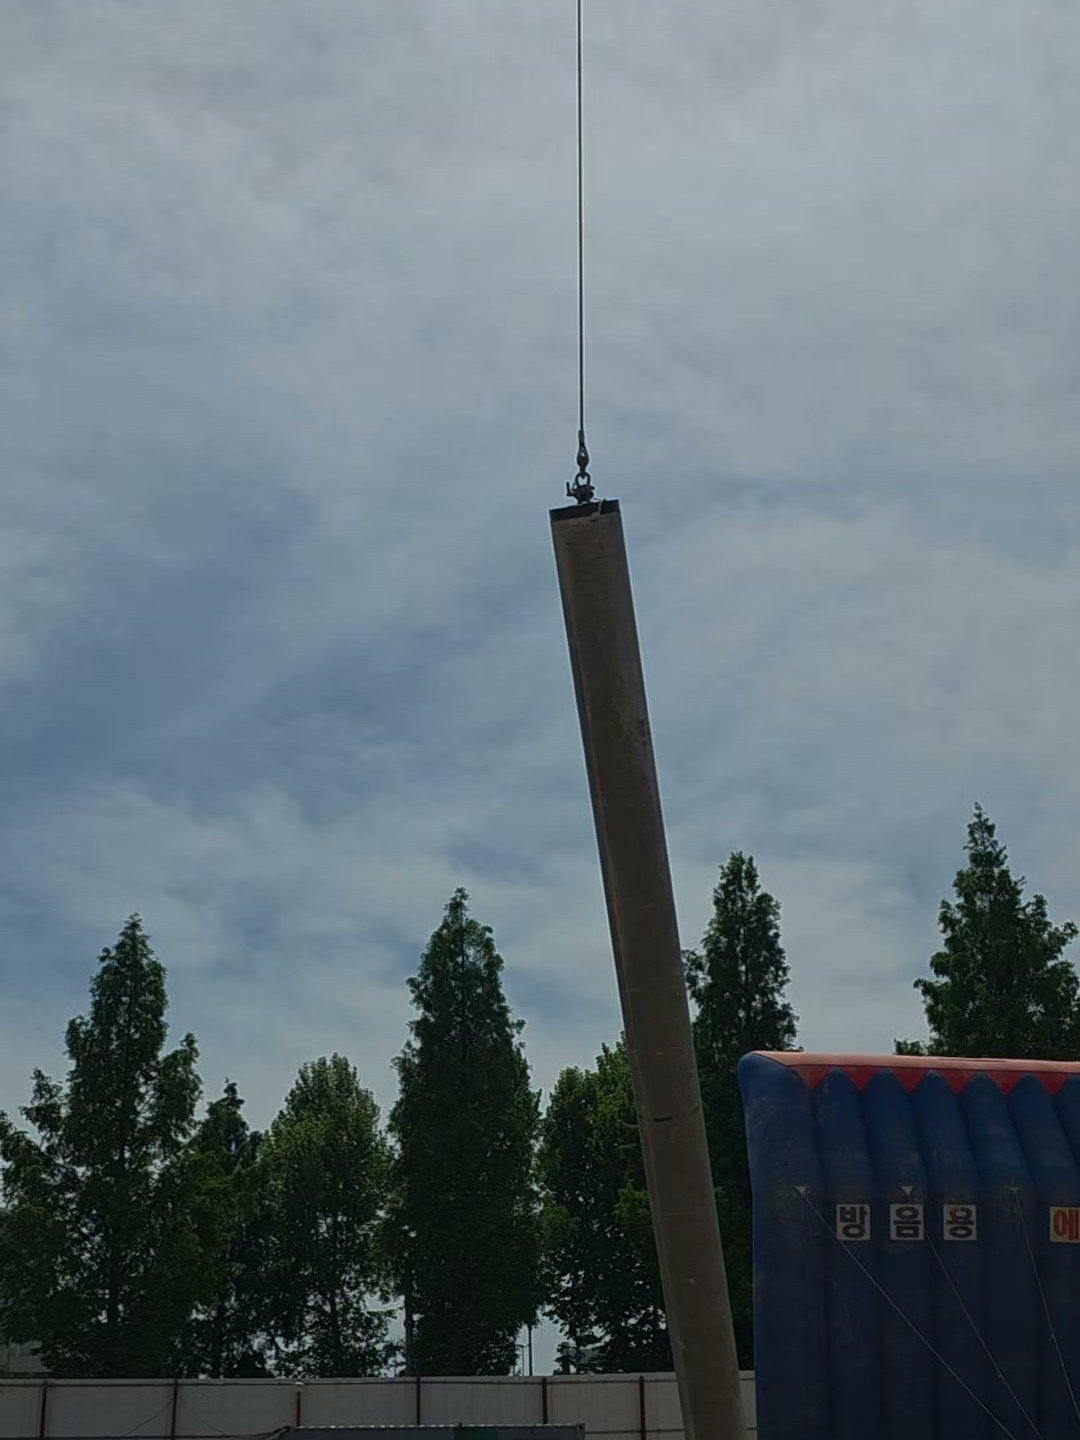
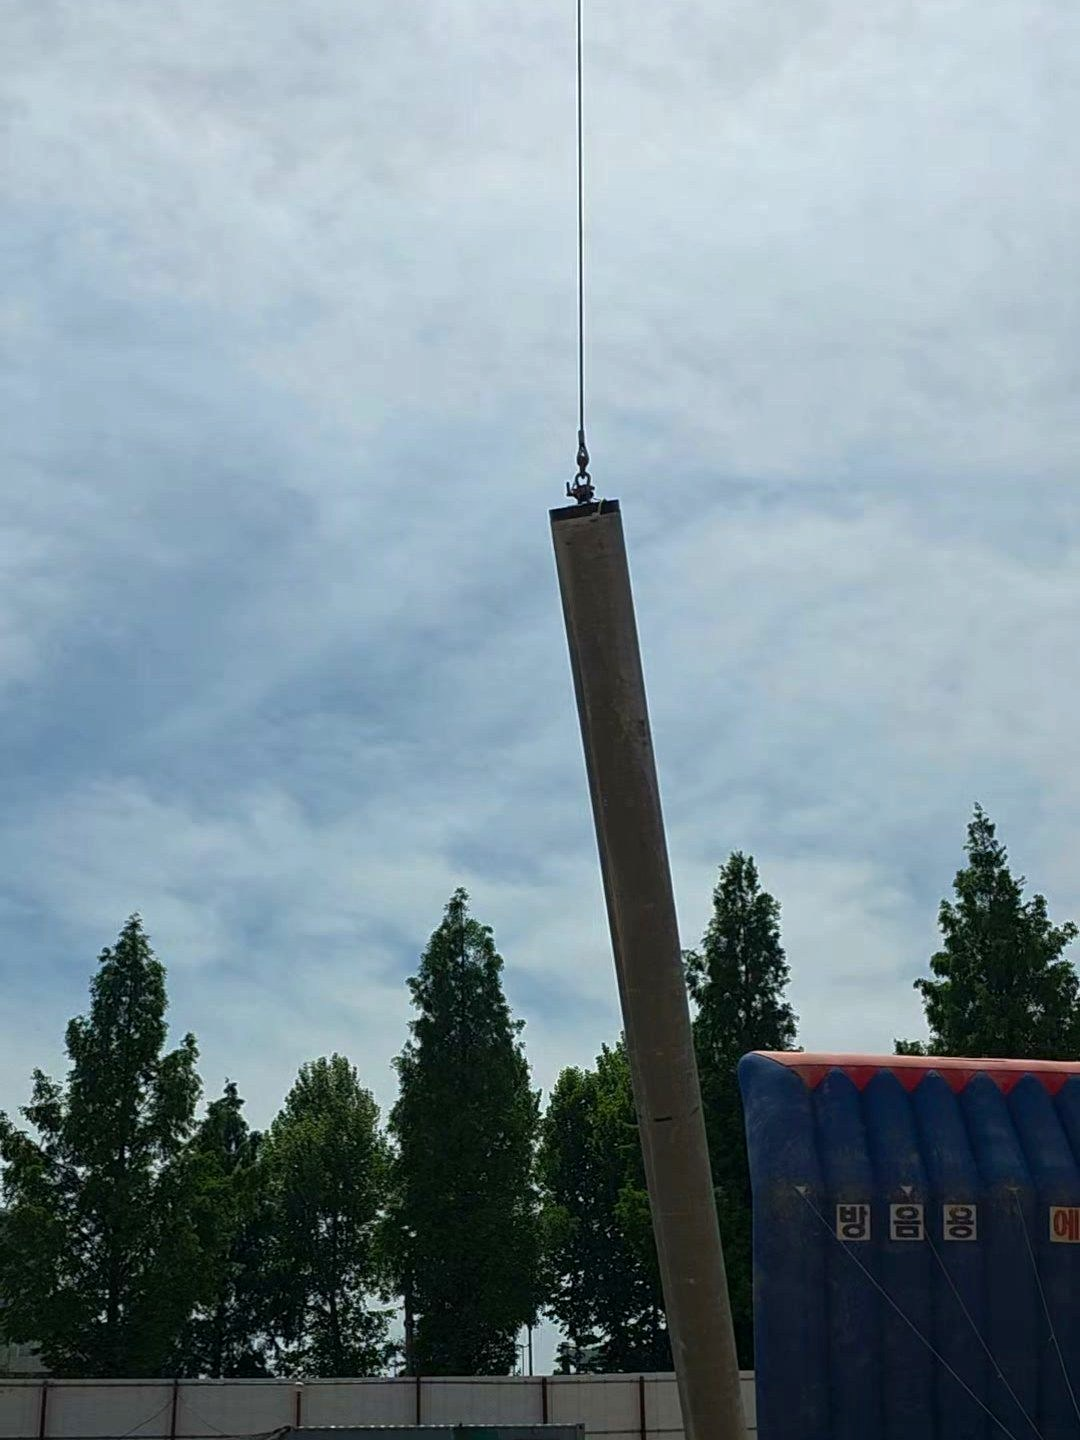
Fix fax number typo and brighten pile-lifter risk photo
- FAX 031-227-4175 -> 031-227-4715 across all pages
- Brighten the "왜 파일인양장치가 필요한가요" section photo to match
  the hero slider brightness adjustment

diff --git a/public/contact.html b/public/contact.html
@@ -88,7 +88,7 @@
           </div>
           <div class="contact-line">
             <span class="ico"><svg width="20" height="20" viewBox="0 0 24 24" fill="none" stroke="currentColor" stroke-width="2"><path d="M21 8v8a2 2 0 01-2 2H5a2 2 0 01-2-2V8m18 0l-9 6-9-6m18 0l-9-4-9 4"/></svg></span>
-            <div><div class="label">FAX</div><div class="value">031-227-4175</div></div>
+            <div><div class="label">FAX</div><div class="value">031-227-4715</div></div>
           </div>
           <div class="contact-line">
             <span class="ico"><svg width="20" height="20" viewBox="0 0 24 24" fill="none" stroke="currentColor" stroke-width="2"><path d="M4 4h16v16H4V4z"/><path d="M22 6l-10 7L2 6"/></svg></span>
@@ -161,7 +161,7 @@
           경기도 화성시 봉담읍 생수길 26<br>
           사업자등록번호 694-13-01293<br>
           대표전화 010-5448-8108<br>
-          FAX 031-227-4175<br>
+          FAX 031-227-4715<br>
           대표 이동국<br>
           <a href="mailto:tk5448@naver.com">tk5448@naver.com</a>
         </address>

diff --git a/public/location.html b/public/location.html
@@ -102,7 +102,7 @@
             <svg width="24" height="24" viewBox="0 0 24 24" fill="none" stroke="currentColor" stroke-width="2"><path d="M22 16.92v3a2 2 0 01-2.18 2 19.79 19.79 0 01-8.63-3.07 19.5 19.5 0 01-6-6 19.79 19.79 0 01-3.07-8.67A2 2 0 014.11 2h3a2 2 0 012 1.72c.127.96.362 1.903.7 2.81a2 2 0 01-.45 2.11L8.09 9.91a16 16 0 006 6l1.27-1.27a2 2 0 012.11-.45c.907.338 1.85.573 2.81.7A2 2 0 0122 16.92z"/></svg>
           </div>
           <h3>전화 / 팩스</h3>
-          <p>대표전화 010-5448-8108<br>FAX 031-227-4175<br>대표 이동국</p>
+          <p>대표전화 010-5448-8108<br>FAX 031-227-4715<br>대표 이동국</p>
         </div>
         <div class="card">
           <div class="card-icon">
@@ -154,7 +154,7 @@
           경기도 화성시 봉담읍 생수길 26<br>
           사업자등록번호 694-13-01293<br>
           대표전화 010-5448-8108<br>
-          FAX 031-227-4175<br>
+          FAX 031-227-4715<br>
           대표 이동국<br>
           <a href="mailto:tk5448@naver.com">tk5448@naver.com</a>
         </address>

diff --git a/public/about.html b/public/about.html
@@ -191,7 +191,7 @@
           경기도 화성시 봉담읍 생수길 26<br>
           사업자등록번호 694-13-01293<br>
           대표전화 010-5448-8108<br>
-          FAX 031-227-4175<br>
+          FAX 031-227-4715<br>
           대표 이동국<br>
           <a href="mailto:tk5448@naver.com">tk5448@naver.com</a>
         </address>

diff --git a/public/certifications.html b/public/certifications.html
@@ -299,7 +299,7 @@
           경기도 화성시 봉담읍 생수길 26<br>
           사업자등록번호 694-13-01293<br>
           대표전화 010-5448-8108<br>
-          FAX 031-227-4175<br>
+          FAX 031-227-4715<br>
           대표 이동국<br>
           <a href="mailto:tk5448@naver.com">tk5448@naver.com</a>
         </address>

diff --git a/public/gallery.html b/public/gallery.html
@@ -183,7 +183,7 @@
           경기도 화성시 봉담읍 생수길 26<br>
           사업자등록번호 694-13-01293<br>
           대표전화 010-5448-8108<br>
-          FAX 031-227-4175<br>
+          FAX 031-227-4715<br>
           대표 이동국<br>
           <a href="mailto:tk5448@naver.com">tk5448@naver.com</a>
         </address>

diff --git a/public/index.html b/public/index.html
@@ -386,7 +386,7 @@
           경기도 화성시 봉담읍 생수길 26<br>
           사업자등록번호 694-13-01293<br>
           대표전화 010-5448-8108<br>
-          FAX 031-227-4175<br>
+          FAX 031-227-4715<br>
           대표 이동국<br>
           <a href="mailto:tk5448@naver.com">tk5448@naver.com</a>
         </address>

diff --git a/public/pile-lifter.html b/public/pile-lifter.html
@@ -279,7 +279,7 @@
           경기도 화성시 봉담읍 생수길 26<br>
           사업자등록번호 694-13-01293<br>
           대표전화 010-5448-8108<br>
-          FAX 031-227-4175<br>
+          FAX 031-227-4715<br>
           대표 이동국<br>
           <a href="mailto:tk5448@naver.com">tk5448@naver.com</a>
         </address>

diff --git a/public/product.html b/public/product.html
@@ -352,7 +352,7 @@
           경기도 화성시 봉담읍 생수길 26<br>
           사업자등록번호 694-13-01293<br>
           대표전화 010-5448-8108<br>
-          FAX 031-227-4175<br>
+          FAX 031-227-4715<br>
           대표 이동국<br>
           <a href="mailto:tk5448@naver.com">tk5448@naver.com</a>
         </address>
